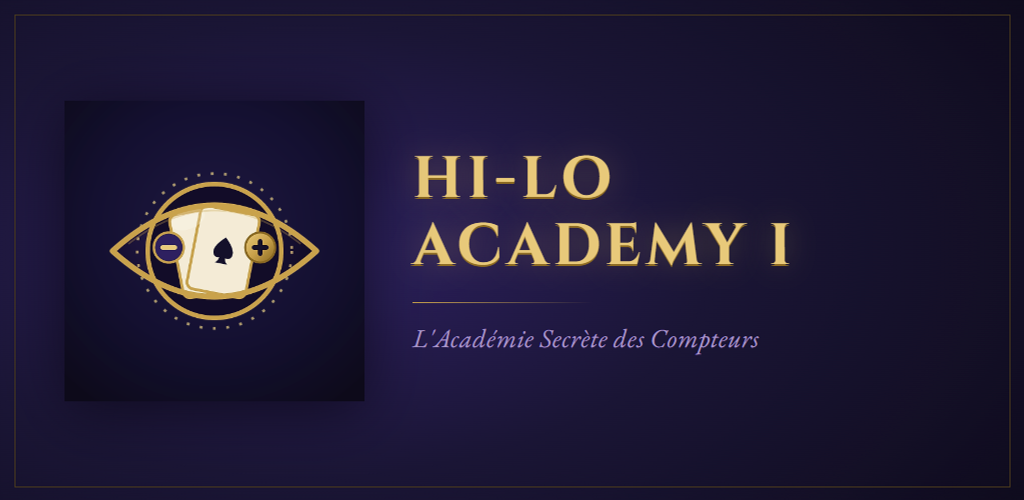
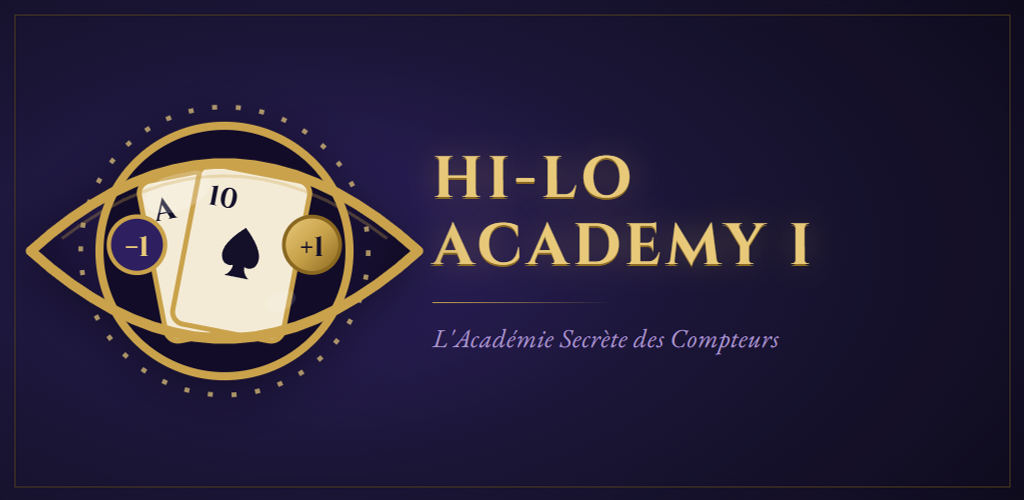
Auto-save 2026-09-13 02:27

Changed region(s): [[0.0, 0.18, 0.8125, 0.81], [0.4062, 0.66, 0.7812, 0.72], [0.0625, 0.18, 0.0938, 0.33]]

diff --git a/TODO.md b/TODO.md
@@ -38,7 +38,7 @@
 - [x] Brève description (0/80 caractères) — faite par l'utilisateur (2026-09-13)
 - [x] Description complète (0/4000 caractères) — faite par l'utilisateur (2026-09-13)
 - [x] **Icône de l'app (2026-09-13)** — remplacée par le vrai logo `AppLogo` de l'app (celui du header/logo cliquable : œil avec cartes As+10 et jetons texte "−1"/"+1", au lieu du motif générique de `icon-foreground.svg`), rendu en HTML/Chrome avec la police Cinzel du projet pour un texte net, sur le fond violet radial habituel, exporté 512×512. Uploadée et enregistrée dans la Fiche Play Store. Fichier : `assets/playstore-icon-512.png`.
-- [x] **Image de présentation / feature graphic (2026-09-13)** — composée en HTML/CSS avec les vraies polices du projet (Cinzel + EB Garamond, palette `G`), rendue dans Chrome et exportée en 1024×500 : icône à gauche, « HI-LO ACADEMY I » + « L'Académie Secrète des Compteurs ». Uploadée et enregistrée. Fichier : `assets/playstore-feature-graphic-1024x500.png`.
+- [x] **Image de présentation / feature graphic (2026-09-13)** — composée en HTML/CSS avec les vraies polices du projet (Cinzel + EB Garamond, palette `G`), rendue dans Chrome et exportée en 1024×500 : logo `AppLogo` (As+10, jetons "−1"/"+1", même version que l'icône) à gauche, « HI-LO ACADEMY I » + « L'Académie Secrète des Compteurs » à droite. Uploadée et enregistrée. Fichier : `assets/playstore-feature-graphic-1024x500.png`.
 - [ ] **Captures d'écran téléphone — minimum 4** (16:9 ou 9:16, ≥1080 px de côté) pour avoir le droit de promouvoir l'app — nécessite de vraies captures du jeu en action (lobby, une partie, stats/hauts faits…), pas généré automatiquement. **À faire manuellement** (ou lancer une session dédiée avec le jeu ouvert dans le navigateur/l'APK pour les prendre).
 - [ ] (optionnel) Captures d'écran tablette 7 pouces — jusqu'à 8
 
